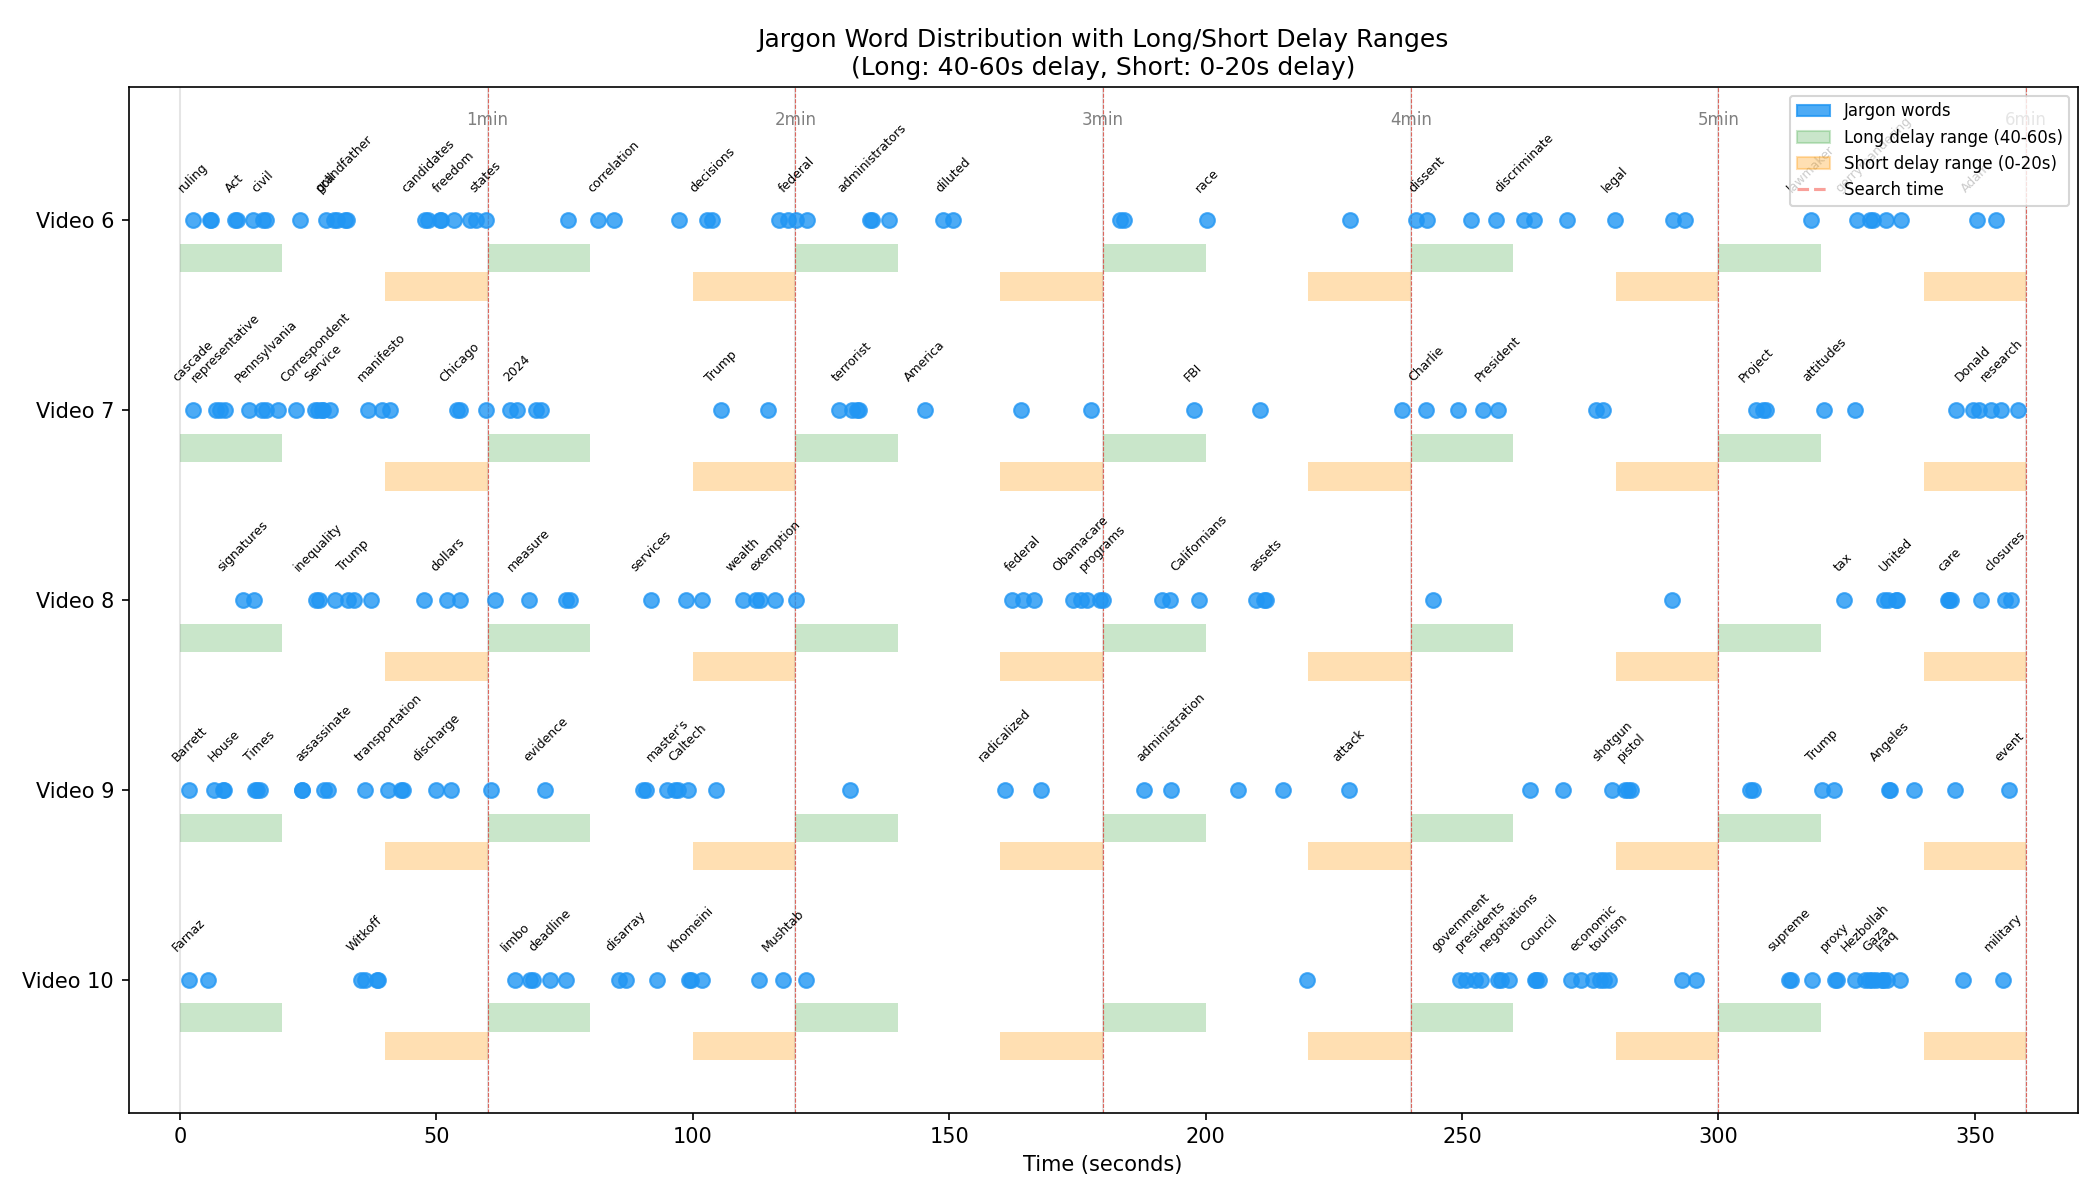
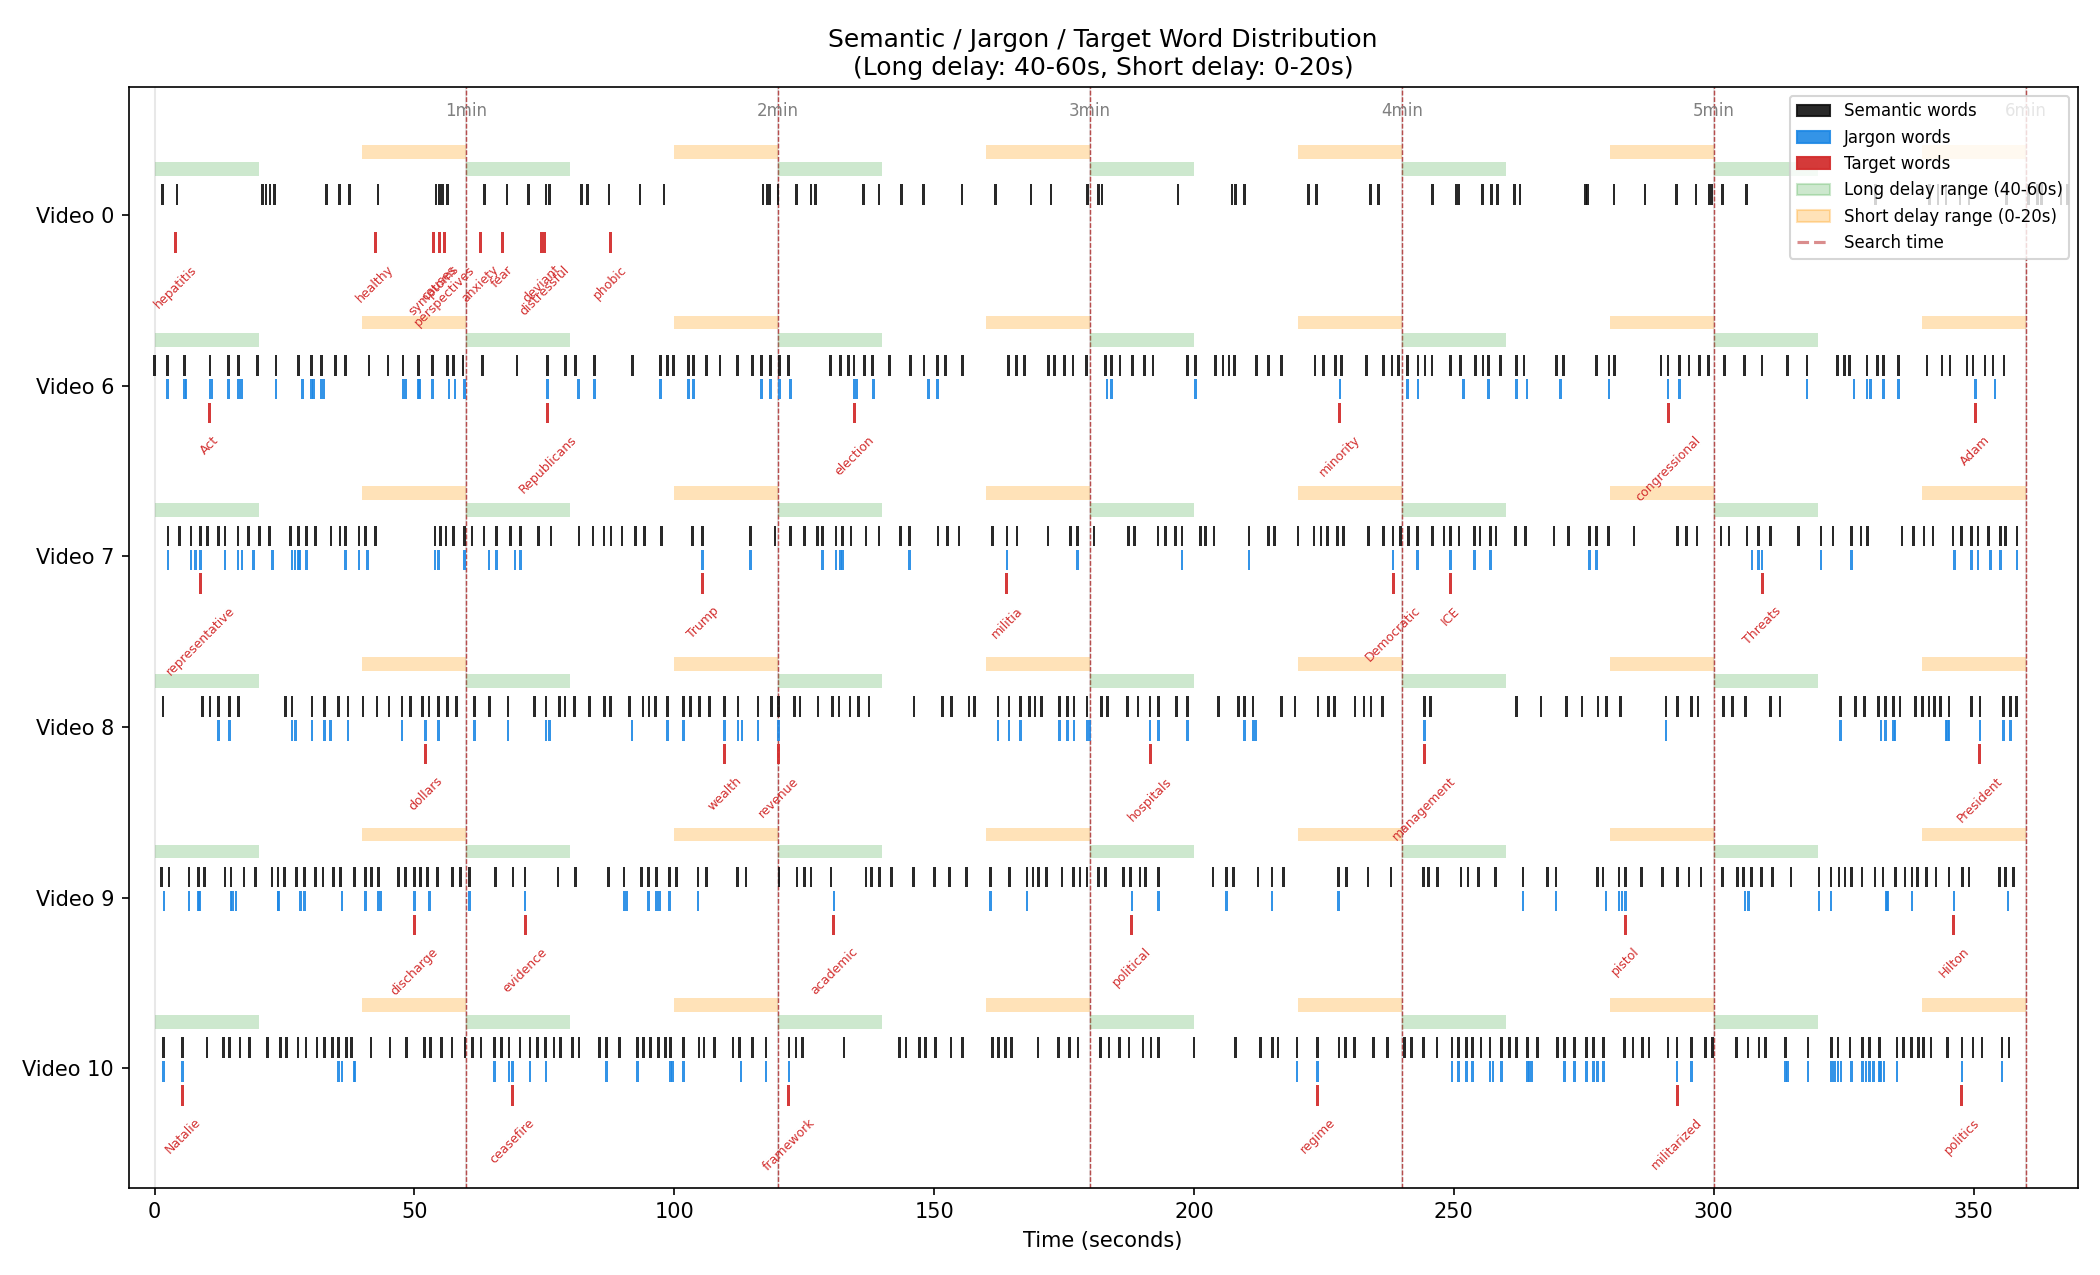
plot jargon distribution

diff --git a/search/scripts/plot_jargon_word_distribution.py b/search/scripts/plot_jargon_word_distribution.py
@@ -1,109 +1,235 @@
 #!/usr/bin/env python3
-"""Plot jargon word distribution across time for each video."""
+"""Plot semantic, jargon, and target words across time for selected videos."""
 
 import json
 from pathlib import Path
 
-import matplotlib.pyplot as plt
 import matplotlib.patches as mpatches
-import numpy as np
+import matplotlib.pyplot as plt
+
+
+VIDEO_CONFIGS = [
+    {
+        "video_id": "0",
+        "semantic_path": Path("data/semantic_words/0_ts_edit.json"),
+        "jargon_path": None,
+        "target_path": Path("data/study/target_words/0_tutorial_full.json"),
+    },
+    {
+        "video_id": "6",
+        "semantic_path": Path("data/semantic_words/6.json"),
+        "jargon_path": Path("data/semantic_words/6.zero.jargon.json"),
+        "target_path": Path("data/study/target_words/6.json"),
+    },
+    {
+        "video_id": "7",
+        "semantic_path": Path("data/semantic_words/7.json"),
+        "jargon_path": Path("data/semantic_words/7.zero.jargon.json"),
+        "target_path": Path("data/study/target_words/7.json"),
+    },
+    {
+        "video_id": "8",
+        "semantic_path": Path("data/semantic_words/8.json"),
+        "jargon_path": Path("data/semantic_words/8.zero.jargon.json"),
+        "target_path": Path("data/study/target_words/8.json"),
+    },
+    {
+        "video_id": "9",
+        "semantic_path": Path("data/semantic_words/9.json"),
+        "jargon_path": Path("data/semantic_words/9.zero.jargon.json"),
+        "target_path": Path("data/study/target_words/9.json"),
+    },
+    {
+        "video_id": "10",
+        "semantic_path": Path("data/semantic_words/10.json"),
+        "jargon_path": Path("data/semantic_words/10.zero.jargon.json"),
+        "target_path": Path("data/study/target_words/10.json"),
+    },
+]
 
 
 def load_json(path: Path):
-    with path.open() as f:
+    with path.open(encoding="utf-8") as f:
         return json.load(f)
 
 
+def load_word_times(path: Path | None):
+    if path is None or not path.exists():
+        return []
+    data = load_json(path)
+    items = []
+    for item in data:
+        word = item.get("word")
+        time = item.get("time")
+        if isinstance(word, str) and isinstance(time, (int, float)):
+            items.append((word, float(time)))
+    return items
+
+
+def load_target_words(path: Path):
+    if not path.exists():
+        return []
+    data = load_json(path)
+    items = []
+    for item in data.get("interruptions", []):
+        word = item.get("target_word")
+        time = item.get("target_word_time")
+        if isinstance(word, str) and isinstance(time, (int, float)):
+            items.append((word, float(time)))
+    return items
+
+
+def draw_word_rectangles(ax, items, y, color, height, width, alpha, zorder):
+    if not items:
+        return
+    ax.broken_barh(
+        [(time - width / 2, width) for _, time in items],
+        (y - height / 2, height),
+        facecolors=color,
+        edgecolors="none",
+        alpha=alpha,
+        zorder=zorder,
+    )
+
+
 def main():
-    # Configuration
-    video_ids = ["6", "7", "8", "9", "10"]
-    jargon_dir = Path("data/semantic_words")
     output_path = Path("result/jargon_word_distribution.png")
     output_path.parent.mkdir(parents=True, exist_ok=True)
 
-    # Delay parameters
-    short_mean = 10
-    long_mean = 50
-    tolerance = 10
-    short_min, short_max = short_mean - tolerance, short_mean + tolerance  # 0-20
-    long_min, long_max = long_mean - tolerance, long_mean + tolerance  # 40-60
-
-    # Create figure
-    fig, ax = plt.subplots(figsize=(14, 8))
-
-    # Colors
-    word_color = "#2196F3"
+    semantic_color = "#111111"
+    jargon_color = "#1E88E5"
+    target_color = "#D32F2F"
     long_color = "#4CAF50"
     short_color = "#FF9800"
-    search_color = "#F44336"
+    search_color = "#B71C1C"
 
-    y_positions = {}
-    for i, video_id in enumerate(video_ids):
-        y_positions[video_id] = len(video_ids) - i
+    rect_width = 0.5
+    rect_height = 0.12
 
-    # Plot each video
-    for video_id in video_ids:
+    fig, ax = plt.subplots(figsize=(14, 8.5))
+
+    y_positions = {
+        config["video_id"]: len(VIDEO_CONFIGS) - index
+        for index, config in enumerate(VIDEO_CONFIGS)
+    }
+
+    for config in VIDEO_CONFIGS:
+        video_id = config["video_id"]
         y = y_positions[video_id]
-        jargon_path = jargon_dir / f"{video_id}.zero.jargon.json"
 
-        if not jargon_path.exists():
-            print(f"Warning: {jargon_path} not found")
-            continue
+        semantic_items = load_word_times(config["semantic_path"])
+        jargon_items = load_word_times(config["jargon_path"])
+        target_items = load_target_words(config["target_path"])
 
-        jargon_data = load_json(jargon_path)
-        times = [item["time"] for item in jargon_data]
-        words = [item["word"] for item in jargon_data]
+        draw_word_rectangles(
+            ax,
+            semantic_items,
+            y + 0.12,
+            semantic_color,
+            rect_height,
+            rect_width,
+            0.9,
+            3,
+        )
+        draw_word_rectangles(
+            ax,
+            jargon_items,
+            y - 0.02,
+            jargon_color,
+            rect_height,
+            rect_width,
+            0.9,
+            4,
+        )
+        draw_word_rectangles(
+            ax,
+            target_items,
+            y - 0.16,
+            target_color,
+            rect_height,
+            rect_width * 1.15,
+            0.95,
+            5,
+        )
 
-        # Plot word positions
-        ax.scatter(times, [y] * len(times), c=word_color, s=50, zorder=5, alpha=0.8)
+        for word, time in target_items:
+            ax.annotate(
+                word,
+                (time, y - 0.28),
+                fontsize=6,
+                ha="center",
+                va="top",
+                rotation=45,
+                color=target_color,
+            )
 
-        # Add word labels for some words (to avoid clutter, show every 3rd word)
-        for j, (t, w) in enumerate(zip(times, words)):
-            if j % 3 == 0:
-                ax.annotate(w, (t, y + 0.15), fontsize=6, ha="center", rotation=45)
-
-        # Draw delay ranges for each minute (search times at 60, 120, 180, 240, 300, 360)
         for minute in range(1, 7):
             search_time = minute * 60
+            long_start = search_time - 60
+            long_end = search_time - 40
+            short_start = search_time - 20
+            short_end = search_time
 
-            # Long delay range: target_time in [search_time - long_max, search_time - long_min]
-            long_start = search_time - long_max  # search_time - 60
-            long_end = search_time - long_min    # search_time - 40
+            ax.barh(
+                y + 0.27,
+                long_end - long_start,
+                left=long_start,
+                height=0.08,
+                color=long_color,
+                alpha=0.28,
+                zorder=1,
+            )
+            ax.barh(
+                y + 0.37,
+                short_end - short_start,
+                left=short_start,
+                height=0.08,
+                color=short_color,
+                alpha=0.28,
+                zorder=1,
+            )
+            ax.axvline(
+                x=search_time,
+                color=search_color,
+                linestyle="--",
+                alpha=0.25,
+                linewidth=0.6,
+                zorder=0,
+            )
 
-            # Short delay range: target_time in [search_time - short_max, search_time - short_min]
-            short_start = search_time - short_max  # search_time - 20
-            short_end = search_time - short_min    # search_time - 0
-
-            # Draw ranges as horizontal bars
-            bar_height = 0.15
-            ax.barh(y - 0.2, long_end - long_start, left=long_start, height=bar_height,
-                    color=long_color, alpha=0.3, zorder=1)
-            ax.barh(y - 0.35, short_end - short_start, left=short_start, height=bar_height,
-                    color=short_color, alpha=0.3, zorder=1)
-
-            # Draw search time vertical line
-            ax.axvline(x=search_time, color=search_color, linestyle="--", alpha=0.3, linewidth=0.5)
-
-    # Formatting
-    ax.set_xlim(-10, 370)
-    ax.set_ylim(0.3, len(video_ids) + 0.7)
+    ax.set_xlim(-5, 370)
+    ax.set_ylim(0.3, len(VIDEO_CONFIGS) + 0.75)
     ax.set_yticks(list(y_positions.values()))
-    ax.set_yticklabels([f"Video {v}" for v in video_ids])
+    ax.set_yticklabels([f"Video {config['video_id']}" for config in VIDEO_CONFIGS])
     ax.set_xlabel("Time (seconds)")
-    ax.set_title("Jargon Word Distribution with Long/Short Delay Ranges\n(Long: 40-60s delay, Short: 0-20s delay)")
+    ax.set_title(
+        "Semantic / Jargon / Target Word Distribution\n"
+        "(Long delay: 40-60s, Short delay: 0-20s)"
+    )
 
-    # Add minute markers
     for minute in range(7):
-        ax.axvline(x=minute * 60, color="gray", linestyle="-", alpha=0.2, linewidth=1)
+        ax.axvline(x=minute * 60, color="gray", linestyle="-", alpha=0.18, linewidth=1)
         if minute > 0:
-            ax.text(minute * 60, len(video_ids) + 0.5, f"{minute}min", ha="center", fontsize=8, color="gray")
+            ax.text(
+                minute * 60,
+                len(VIDEO_CONFIGS) + 0.58,
+                f"{minute}min",
+                ha="center",
+                fontsize=8,
+                color="gray",
+            )
 
-    # Legend
     legend_elements = [
-        mpatches.Patch(color=word_color, alpha=0.8, label="Jargon words"),
-        mpatches.Patch(color=long_color, alpha=0.3, label="Long delay range (40-60s)"),
-        mpatches.Patch(color=short_color, alpha=0.3, label="Short delay range (0-20s)"),
-        plt.Line2D([0], [0], color=search_color, linestyle="--", alpha=0.5, label="Search time"),
+        mpatches.Patch(color=semantic_color, alpha=0.9, label="Semantic words"),
+        mpatches.Patch(color=jargon_color, alpha=0.9, label="Jargon words"),
+        mpatches.Patch(color=target_color, alpha=0.95, label="Target words"),
+        mpatches.Patch(color=long_color, alpha=0.28, label="Long delay range (40-60s)"),
+        mpatches.Patch(
+            color=short_color, alpha=0.28, label="Short delay range (0-20s)"
+        ),
+        plt.Line2D(
+            [0], [0], color=search_color, linestyle="--", alpha=0.5, label="Search time"
+        ),
     ]
     ax.legend(handles=legend_elements, loc="upper right", fontsize=8)
 
